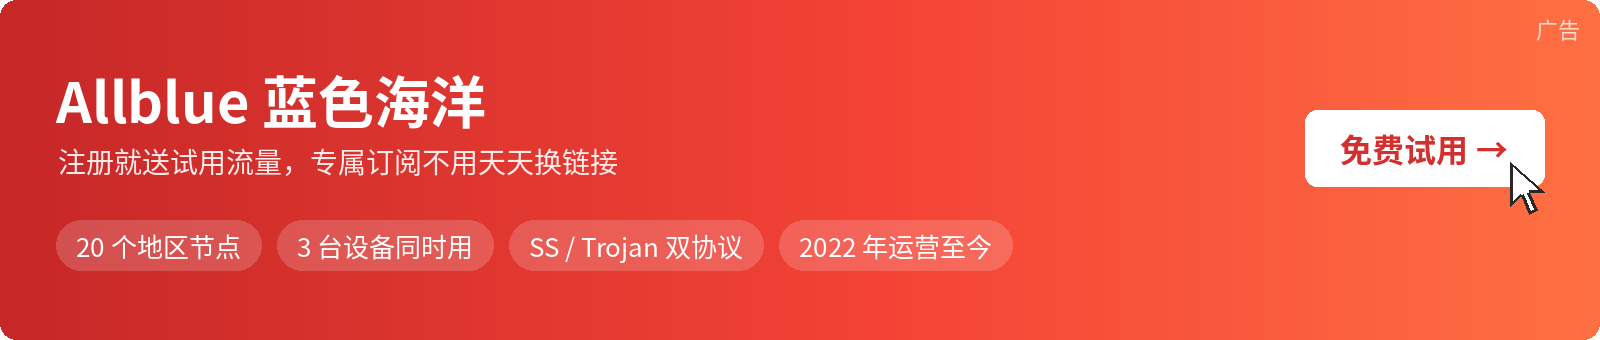
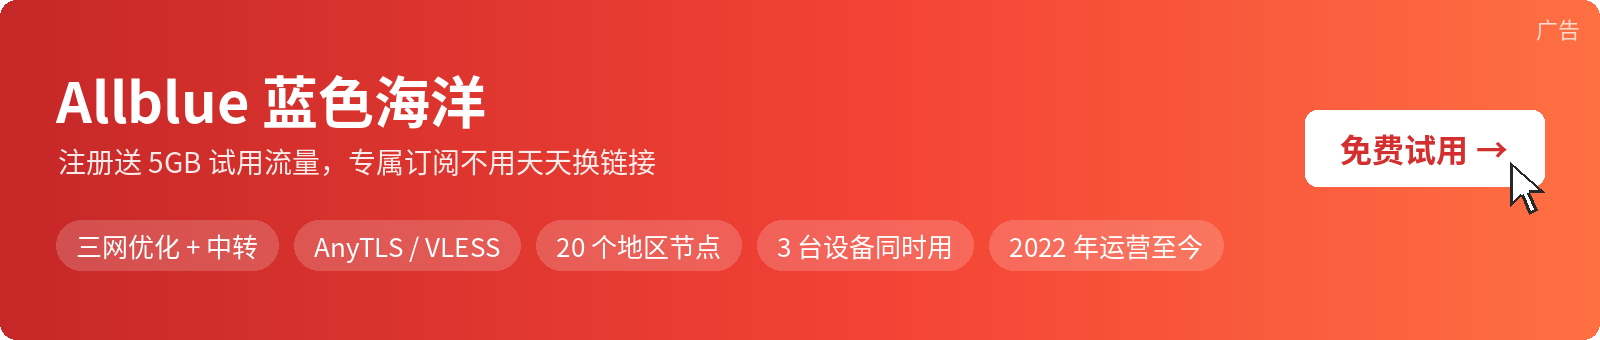
UpdateNodes

Changed region(s): [[0.0312, 0.6471, 0.7812, 0.7941], [0.0625, 0.4412, 0.4062, 0.5294]]

diff --git a/README.md b/README.md
@@ -1,4 +1,4 @@
->🚀最后更新时间: 2026-11-12 18:14:05
+>🚀最后更新时间: 2026-11-12 18:31:31
 
 # Allblue 免费节点每日更新
 
@@ -18,7 +18,7 @@
 >🚀免费订阅链接（Clash / v2rayN / 小火箭通用）
 
 ```
-https://lsjmTr.absslk.xyz/69abdbb2eca850428dca110d94facb2c
+https://Pr3RKU.absslk.xyz/a7c571c45dfaa52fc904520fd5719960
 ```
 
 ## 怎么用（3 步）
